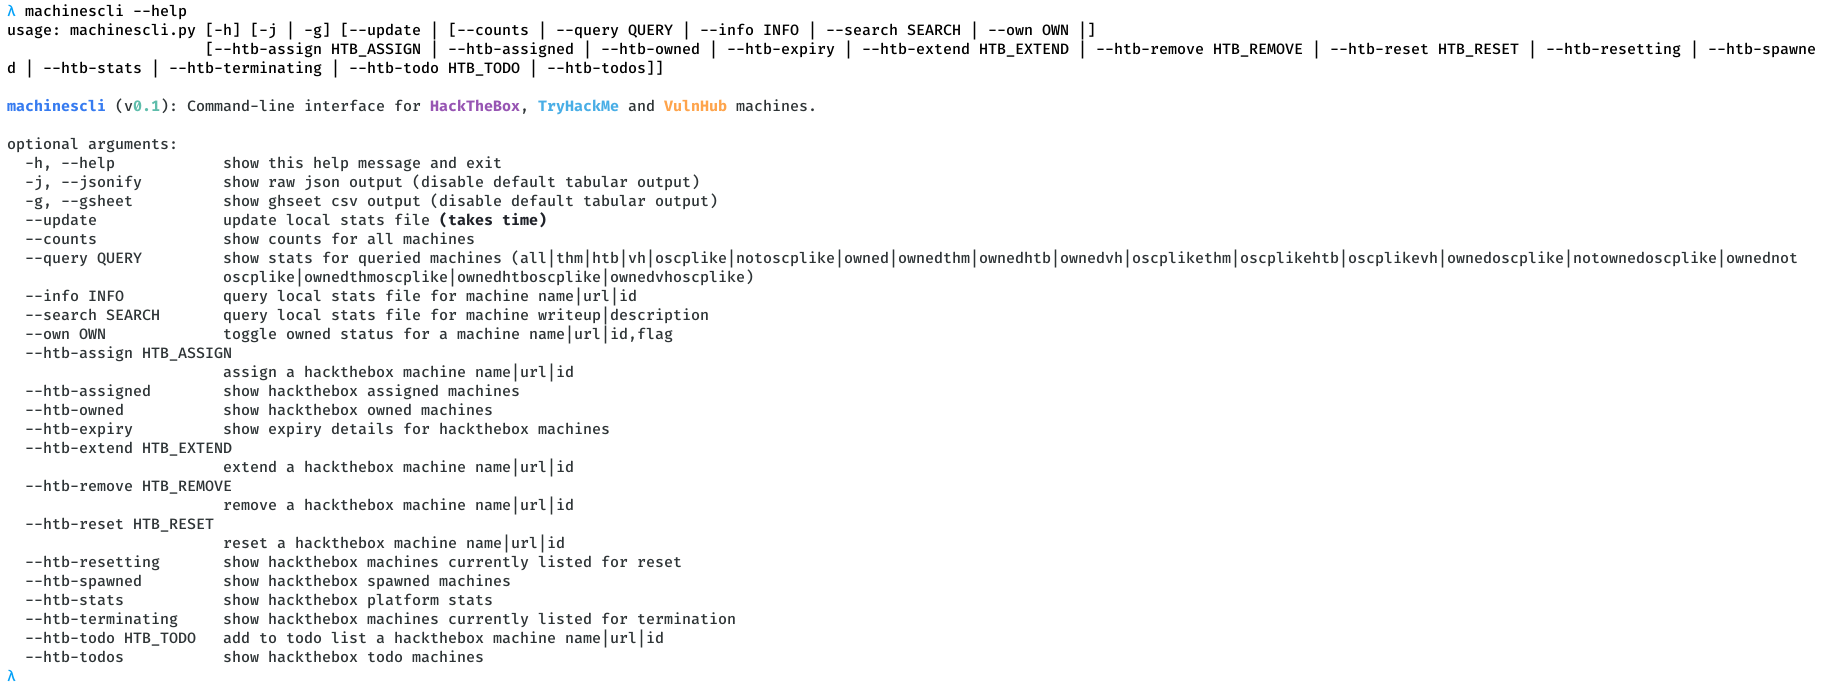
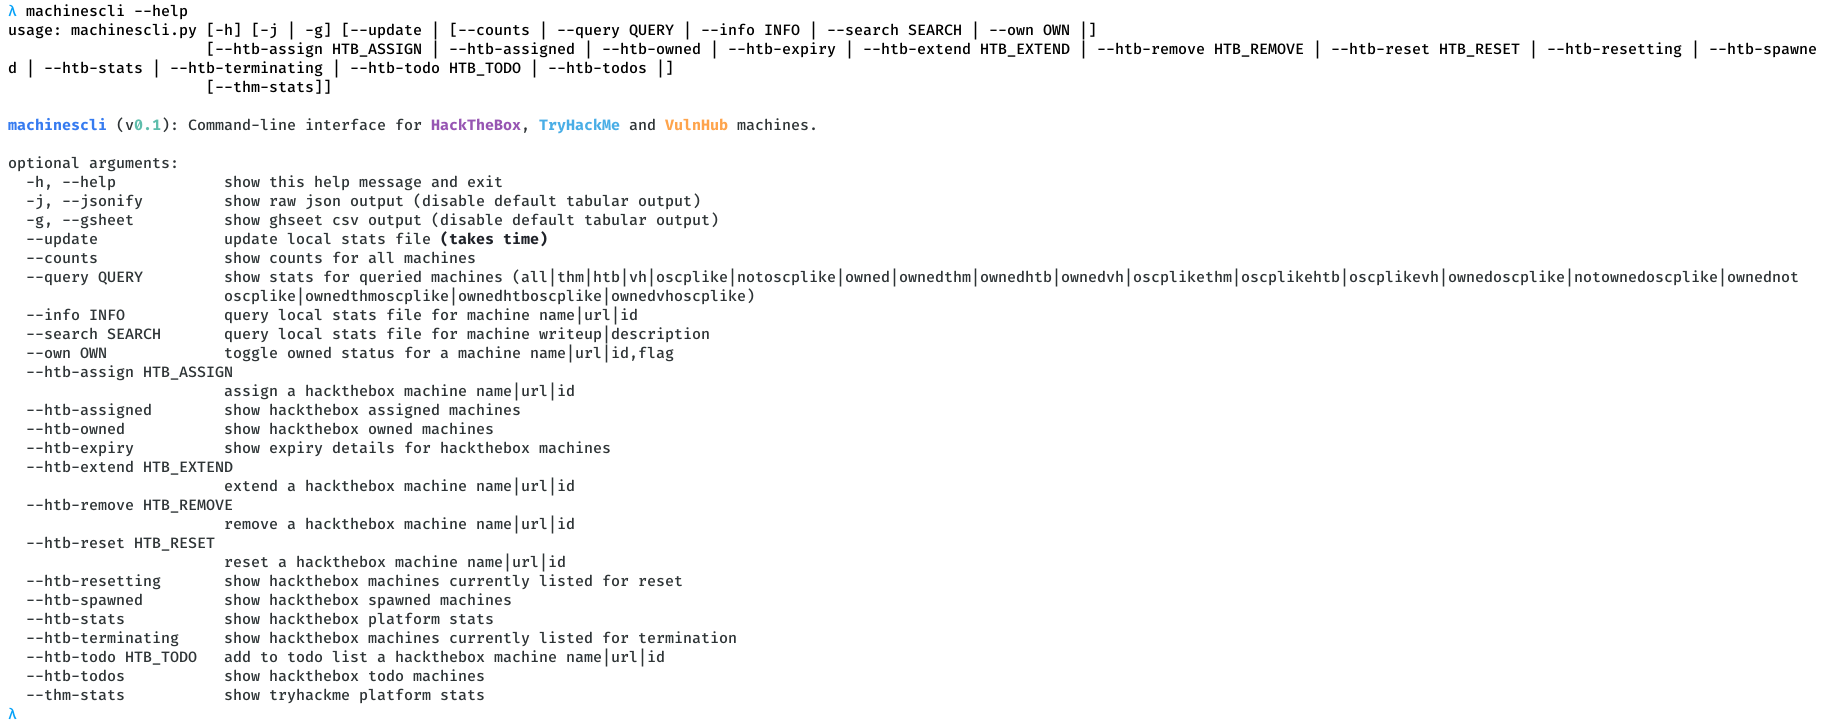
⚡  It compiles! Ship it!

Changed region(s): [[0.0, 0.214, 0.9835, 0.9782], [0.0, 0.0, 1.0, 0.3974]]

diff --git a/tryhackme.py b/tryhackme.py
@@ -4,37 +4,6 @@ import utils
 
 
 class TryHackMe:
-  """
-    open endpoints:
-    curl -s "https://tryhackme.com/api/all-completed-rooms/7h3rAm" | jq
-    curl -s "https://tryhackme.com/api/get-badges" | jq
-    curl -s "https://tryhackme.com/api/get-votes/vulnversity" | jq
-    curl -s "https://tryhackme.com/api/getstats" | jq
-    curl -s "https://tryhackme.com/api/hacktivities" | jq
-    curl -s "https://tryhackme.com/api/new-rooms" | jq
-    curl -s "https://tryhackme.com/api/room/network/throwback" | jq
-    curl -s "https://tryhackme.com/api/room/vulnversity" | jq
-    curl -s "https://tryhackme.com/api/server-time" | jq
-    curl -s "https://tryhackme.com/api/tasks/vulnversity" | jq
-    curl -s "https://tryhackme.com/api/usersRank/7h3rAm" | jq
-    curl -s "https://tryhackme.com/api/video/get/vulnversity" | jq
-
-    authenticated endpoints:
-    curl -s "https://tryhackme.com/account/subscription-cost" | jq
-    curl -s "https://tryhackme.com/api/check-verification" | jq
-    curl -s "https://tryhackme.com/api/get-my-votes/vulnversity" | jq
-    curl -s "https://tryhackme.com/api/myrooms" | jq
-    curl -s "https://tryhackme.com/api/questions-answered" | jq
-    curl -s "https://tryhackme.com/api/room-percentages" | jq
-    curl -s "https://tryhackme.com/api/running-instances" | jq
-    curl -s "https://tryhackme.com/api/tutorial-status" | jq
-    curl -s "https://tryhackme.com/get-path/beginner" | jq
-    curl -s "https://tryhackme.com/message/get-unseen" | jq
-    curl -s "https://tryhackme.com/notifications/get" | jq
-    curl -s "https://tryhackme.com/notifications/get" | jq
-    curl -s "https://tryhackme.com/recommend/dash" | jq
-  """
-
   def __init__(self):
     self.version = "0.1"
     self.baseurl = "https://tryhackme.com/api"
@@ -70,3 +39,7 @@ class TryHackMe:
       room["votes"] = self._get_http(endpoint="/get-votes/%s" % (room))
       room["videos"] = self._get_http(endpoint="/video/get/%s" % (room))
     return room
+
+  def stats_global(self):
+    # curl -s "https://tryhackme.com/api/getstats" | jq
+    return self._get_http(endpoint="/getstats")

diff --git a/machinescli.py b/machinescli.py
@@ -869,6 +869,9 @@ class MachinesCLI:
       self.htbapi.machines_todo_update(entry)
     self.htb_todos()
 
+  def thm_stats(self):
+    utils.to_json(self.thmapi.stats_global())
+
 
 if __name__ == "__main__":
   parser = argparse.ArgumentParser(description="%s (v%s): Command-line interface for %s, %s and %s machines." % (utils.blue_bold("machinescli"), utils.green_bold("0.1"), utils.magenta_bold("HackTheBox"), utils.cyan_bold("TryHackMe"), utils.yellow_bold("VulnHub")))
@@ -908,6 +911,9 @@ if __name__ == "__main__":
   htbgroup.add_argument('--htb-terminating', required=False, action='store_true', default=False, help='show hackthebox machines currently listed for termination')
   htbgroup.add_argument('--htb-todo', required=False, action='store', help='add to todo list a hackthebox machine name|url|id')
   htbgroup.add_argument('--htb-todos', required=False, action='store_true', default=False, help='show hackthebox todo machines')
+
+  thmgroup = mcgroup.add_mutually_exclusive_group()
+  thmgroup.add_argument('--thm-stats', required=False, action='store_true', default=False, help='show tryhackme platform stats')
 
   args = parser.parse_args()
 
@@ -975,6 +981,9 @@ if __name__ == "__main__":
 
   elif args.htb_todo:
     mcli.htb_todo(args.htb_todo)
+
+  elif args.thm_stats:
+    mcli.thm_stats()
 
   else:
     parser.print_help()

diff --git a/readme.md b/readme.md
@@ -44,6 +44,9 @@ This tool provides commandline access for [HackTheBox](https://www.hackthebox.eu
 1. Perform `assign` and `remove` operations on a HackTheBox machine:
 ![Stats](machinescli10.png)
 
+1. Show global stats from TryHackMe platform:
+![Stats](machinescli11.png)
+
 ## Argument Autocomplete
 Source the `.bash-completion` file within a shell to trigger auto-complete for arguments. This will require the following alias (change path as needed): 
 ```console
